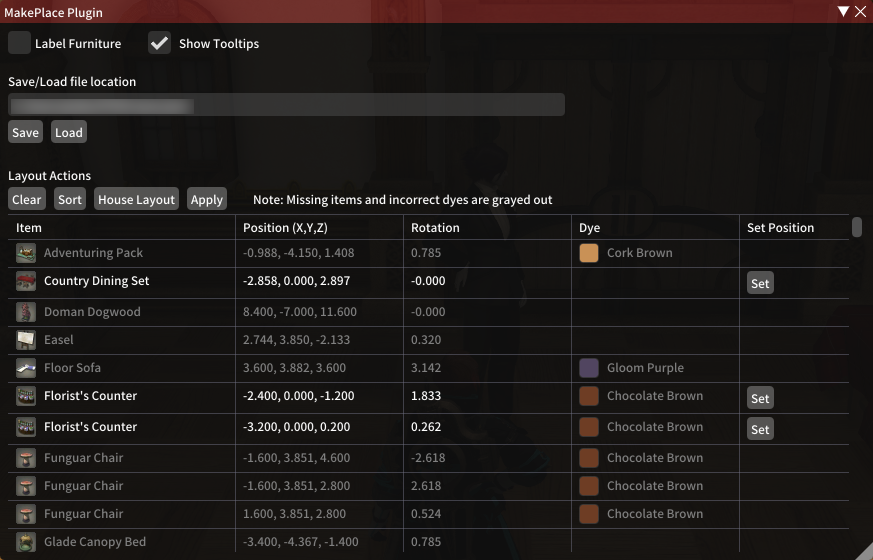
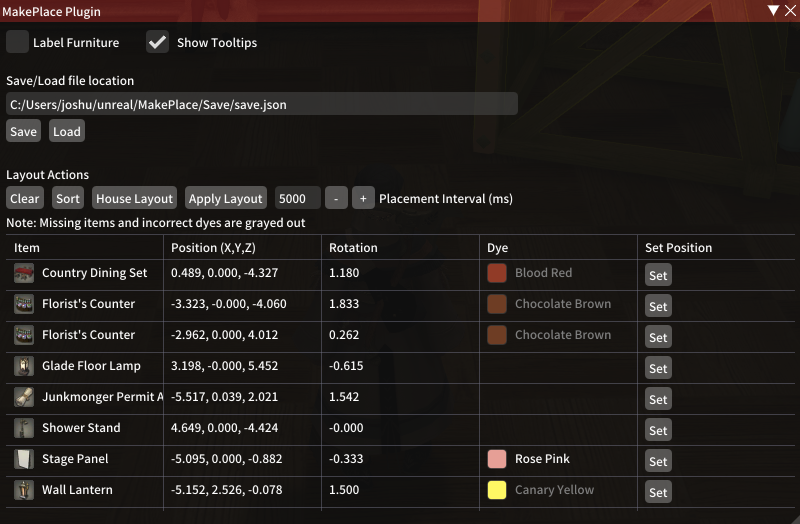
Added placement interval option. Updated formatting.

diff --git a/MakePlacePlugin/LayoutExporter.cs b/MakePlacePlugin/LayoutExporter.cs
@@ -41,19 +41,19 @@ namespace MakePlacePlugin
 
     class Furniture
     {
-        public string name { get; set; }        
+        public string name { get; set; }
 
         public Transform transform { get; set; } = new Transform();
 
         public List<SaveProperty> properties { get; set; } = new List<SaveProperty>();
 
         public Color GetColor()
-        {            
+        {
             foreach (var prop in properties)
             {
                 if (prop.key.Equals("Color"))
                 {
-                    return System.Drawing.ColorTranslator.FromHtml("#" + prop.value.Substring(0,6));                    
+                    return System.Drawing.ColorTranslator.FromHtml("#" + prop.value.Substring(0, 6));
                 }
             }
 
@@ -111,7 +111,7 @@ namespace MakePlacePlugin
 
         private float scale(float i)
         {
-            
+
             return checkZero(i);
         }
 
@@ -135,14 +135,14 @@ namespace MakePlacePlugin
 
         public static List<HousingItem> ImportLayout(string path)
         {
-            
+
             string jsonString = File.ReadAllText(path);
 
             Layout layout = JsonSerializer.Deserialize<Layout>(jsonString);
 
             List<HousingItem> houseItems = new List<HousingItem>();
 
-            
+
             var ItemList = Data.GetExcelSheet<Item>();
             var StainList = Data.GetExcelSheet<Stain>();
 
@@ -151,7 +151,7 @@ namespace MakePlacePlugin
             foreach (var stain in StainList)
             {
                 var color = Utils.StainToVector4(stain.Color);
-                colorList.Add((Color.FromArgb((int)stain.Color) , stain.RowId));
+                colorList.Add((Color.FromArgb((int)stain.Color), stain.RowId));
             }
 
             layoutScale = 1;
@@ -166,7 +166,7 @@ namespace MakePlacePlugin
 
 
             foreach (Furniture furniture in layout.furniture)
-            {                
+            {
                 var itemRow = ItemList.FirstOrDefault(row => row.Name.ToString().Equals(furniture.name));
 
                 if (itemRow == null) continue;
@@ -179,7 +179,7 @@ namespace MakePlacePlugin
                     (byte)furniture.GetClosestStain(colorList),
                     descale(furniture.transform.location[0]),
                     descale(furniture.transform.location[2]), // switch Y & Z axis
-                    descale(furniture.transform.location[1]),                    
+                    descale(furniture.transform.location[1]),
                     -QuaternionExtensions.ComputeZAngle(quat),
                     furniture.name);
 
@@ -226,7 +226,7 @@ namespace MakePlacePlugin
                 }
             }
 
-            var territoryId = Memory.Instance.GetTerritoryTypeId();            
+            var territoryId = Memory.Instance.GetTerritoryTypeId();
             var row = MakePlacePlugin.Data.GetExcelSheet<TerritoryType>().GetRow(territoryId);
 
             if (row != null)
@@ -249,14 +249,14 @@ namespace MakePlacePlugin
                     default:
                         break;
                 }
-                
+
                 save.houseSize = sizeString;
 
-                save.fixture.Add(new SaveProperty("District", names[1].Replace("The", "").Trim()));                
+                save.fixture.Add(new SaveProperty("District", names[1].Replace("The", "").Trim()));
             }
 
 
-            save.fixture.Add(new SaveProperty("Scale","1"));
+            save.fixture.Add(new SaveProperty("Scale", "1"));
 
 
             foreach (HousingItem gameObject in HousingItemList)

diff --git a/MakePlacePlugin/Gui/ConfigurationWindow.cs b/MakePlacePlugin/Gui/ConfigurationWindow.cs
@@ -193,7 +193,7 @@ namespace MakePlacePlugin.Gui
 
             ImGui.SameLine();
 
-            if (ImGui.Button("Apply"))
+            if (ImGui.Button("Apply Layout"))
             {
                 if (IsDecorMode() && MakePlacePlugin.IsRotateMode())
                 {
@@ -206,47 +206,18 @@ namespace MakePlacePlugin.Gui
                 }
             }
 
-            if (ImGui.Button("Test"))
+            ImGui.SameLine();
+
+            ImGui.PushItemWidth(100);
+            if (ImGui.InputInt("Placement Interval (ms)", ref Config.LoadInterval))
             {
-                var territoryId = Memory.Instance.GetTerritoryTypeId();
-                Log("Territory id:" + Memory.Instance.GetTerritoryTypeId());
-
-                var row = Data.GetExcelSheet<TerritoryType>().GetRow(territoryId);
-
-                if (row != null)
-                {
-                    Log("PlaceName: " + row.PlaceName.Value.Name);
-
-                    var names = row.PlaceName.Value.Name.ToString().Split('-');
-
-                    string sizeString = "Apartment";
-
-                    switch (names[0].Trim())
-                    {
-                        case "Private Cottage":
-                            sizeString = "Small";
-                            break;
-                        case "Private House":
-                            sizeString = "Medium";
-                            break;
-                        case "Private Mansion":
-                            sizeString = "Large";
-                            break;
-                        default:
-                            break;
-                    }
-
-                    Log("Size: " + sizeString);
-                    Log("District: " + names[1].Replace("The", "").Trim());
-                }
-
+                Config.Save();
             }
+            ImGui.PopItemWidth();
+            if (Config.ShowTooltips && ImGui.IsItemHovered()) ImGui.SetTooltip("Time interval between furniture placements when applying a layout. If this is too low (e.g. 200 ms), some placements may be skipped over.");
 
-            if (Config.ShowTooltips && ImGui.IsItemHovered()) ImGui.SetTooltip("Use the current layout. Only works while in rotate mode.");
 
-            ImGui.SameLine();
-            ImGui.Dummy(new Vector2(10, 0));
-            ImGui.SameLine();
+
             ImGui.Text("Note: Missing items and incorrect dyes are grayed out");
 
             Config.Save();

diff --git a/MakePlacePlugin/MakePlacePlugin.cs b/MakePlacePlugin/MakePlacePlugin.cs
@@ -67,8 +67,8 @@ namespace MakePlacePlugin
 
 
         // Function for selecting an item, usually used when clicking on one in game.        
-        public delegate void SelectItemDelegate(IntPtr housingStruct, IntPtr item);        
-        private static  HookWrapper<SelectItemDelegate> SelectItemHook;
+        public delegate void SelectItemDelegate(IntPtr housingStruct, IntPtr item);
+        private static HookWrapper<SelectItemDelegate> SelectItemHook;
 
 
 
@@ -92,7 +92,7 @@ namespace MakePlacePlugin
             Gui?.Dispose();
             Interface?.Dispose();
 
-            
+
 
         }
 
@@ -115,7 +115,7 @@ namespace MakePlacePlugin
             });
             Gui = new PluginUi(this);
             ClientState.TerritoryChanged += TerritoryChanged;
-            
+
 
             HousingData.Init(Data, this);
             Memory.Init(Scanner);
@@ -131,7 +131,7 @@ namespace MakePlacePlugin
             LoadHousingFuncHook = HookManager.Hook<LoadHousingFuncDelegate>("48 8B 41 08 48 85 C0 74 09 48 8D 48 10", LoadHousingFuncDetour);
 
             IsSaveLayoutHook = HookManager.Hook<UpdateLayoutDelegate>("40 53 48 83 ec 20 48 8b d9 48 8b 0d d8 a4 8c 01 e8 bb 3c b0 ff 33 d2 48 8b c8 e8 41 d6 f2 ff", IsSaveLayoutDetour);
-            
+
             SelectItemHook = HookManager.Hook<SelectItemDelegate>("E8 ?? ?? ?? ?? 48 8B CE E8 ?? ?? ?? ?? 48 8B 6C 24 40 48 8B CE", SelectItemDetour);
 
         }
@@ -178,7 +178,11 @@ namespace MakePlacePlugin
 
                 SetItemPosition(item);
 
-                Thread.Sleep(400);
+                if (Config.LoadInterval > 0)
+                {
+                    Thread.Sleep(Config.LoadInterval);
+                }
+                
             }
 
             if (ItemsToPlace.Count == 0)
@@ -332,7 +336,7 @@ namespace MakePlacePlugin
 
             if (ApplyChange)
             {
-                ApplyChange = false;               
+                ApplyChange = false;
                 return true;
             }
 

diff --git a/MakePlacePlugin/Configuration.cs b/MakePlacePlugin/Configuration.cs
@@ -10,23 +10,23 @@ namespace MakePlacePlugin
     public class Configuration : IPluginConfiguration
     {
         public int Version { get; set; } = 0;
-        
-        public bool ShowTooltips = true;        
+
+        public bool ShowTooltips = true;
         public bool DrawScreen = false;
         public float DrawDistance = 0;
         public List<int> HiddenScreenItemHistory = new List<int>();
         public List<int> GroupingList = new List<int>();
-        public bool PlaceAnywhere = false;        
-        public bool UseFloatingWindow;
-        
-        public List<HousingItem> HousingItemList = new List<HousingItem>();        
+        public bool PlaceAnywhere = false;
+
+        public List<HousingItem> HousingItemList = new List<HousingItem>();
         public List<string> Tags = new List<string>();
-        public List<bool> TagsSelectList = new List<bool>();        
+        public List<bool> TagsSelectList = new List<bool>();
         public int LocationId = 0;
         public List<HousingItem> UploadItems = new List<HousingItem>();
-        
+        public int LoadInterval = 400;
 
-        public bool SyncPos = false;        
+
+        public bool SyncPos = false;
         public int SelectedItemIndex = -1;
         public float PlaceX = 0;
         public float PlaceY = 0;

diff --git a/README.md b/README.md
@@ -34,9 +34,9 @@ Create a github issue or post on the [discord channel](https://discord.gg/YuvcPz
 No. You can only load layouts when in furniture layout mode, in your own house.
 
 ### Is it safe to use the plugin?
-Since all third-party plugins are not in line with the game's terms of service, there is always an inherent risk. The plugin's automated furniture placement may also be detectable by the server since there is a very short interval between placing each furniture. (If there is enough demand, I can include an option to customize the time interval between each furniture placement.)
+Since all third-party plugins are not in line with the game's terms of service, there is always an inherent risk. The plugin's automated furniture placement may also be detectable by the server as there is a very short interval between placing each furniture. You can increase the time interval between each furniture placement to reduce this risk.
 
-That said, I believe that the risks are low since SE focuses more on ToS violations that upset the game-balance (e.g. RMT). You can also reduce your risk by keeping a low profile and not mentioning the use of the plugin within the game. 
+Overall, I believe that the danger is low since SE focuses more on ToS violations that upset the game-balance (e.g. RMT). You can also reduce your risk by keeping a low profile and not mentioning the use of the plugin within the game. 
 
 ### How do I update the plugin?
 When an update is available, simply return to the plugins window and click on the "Update Plugins" button.
